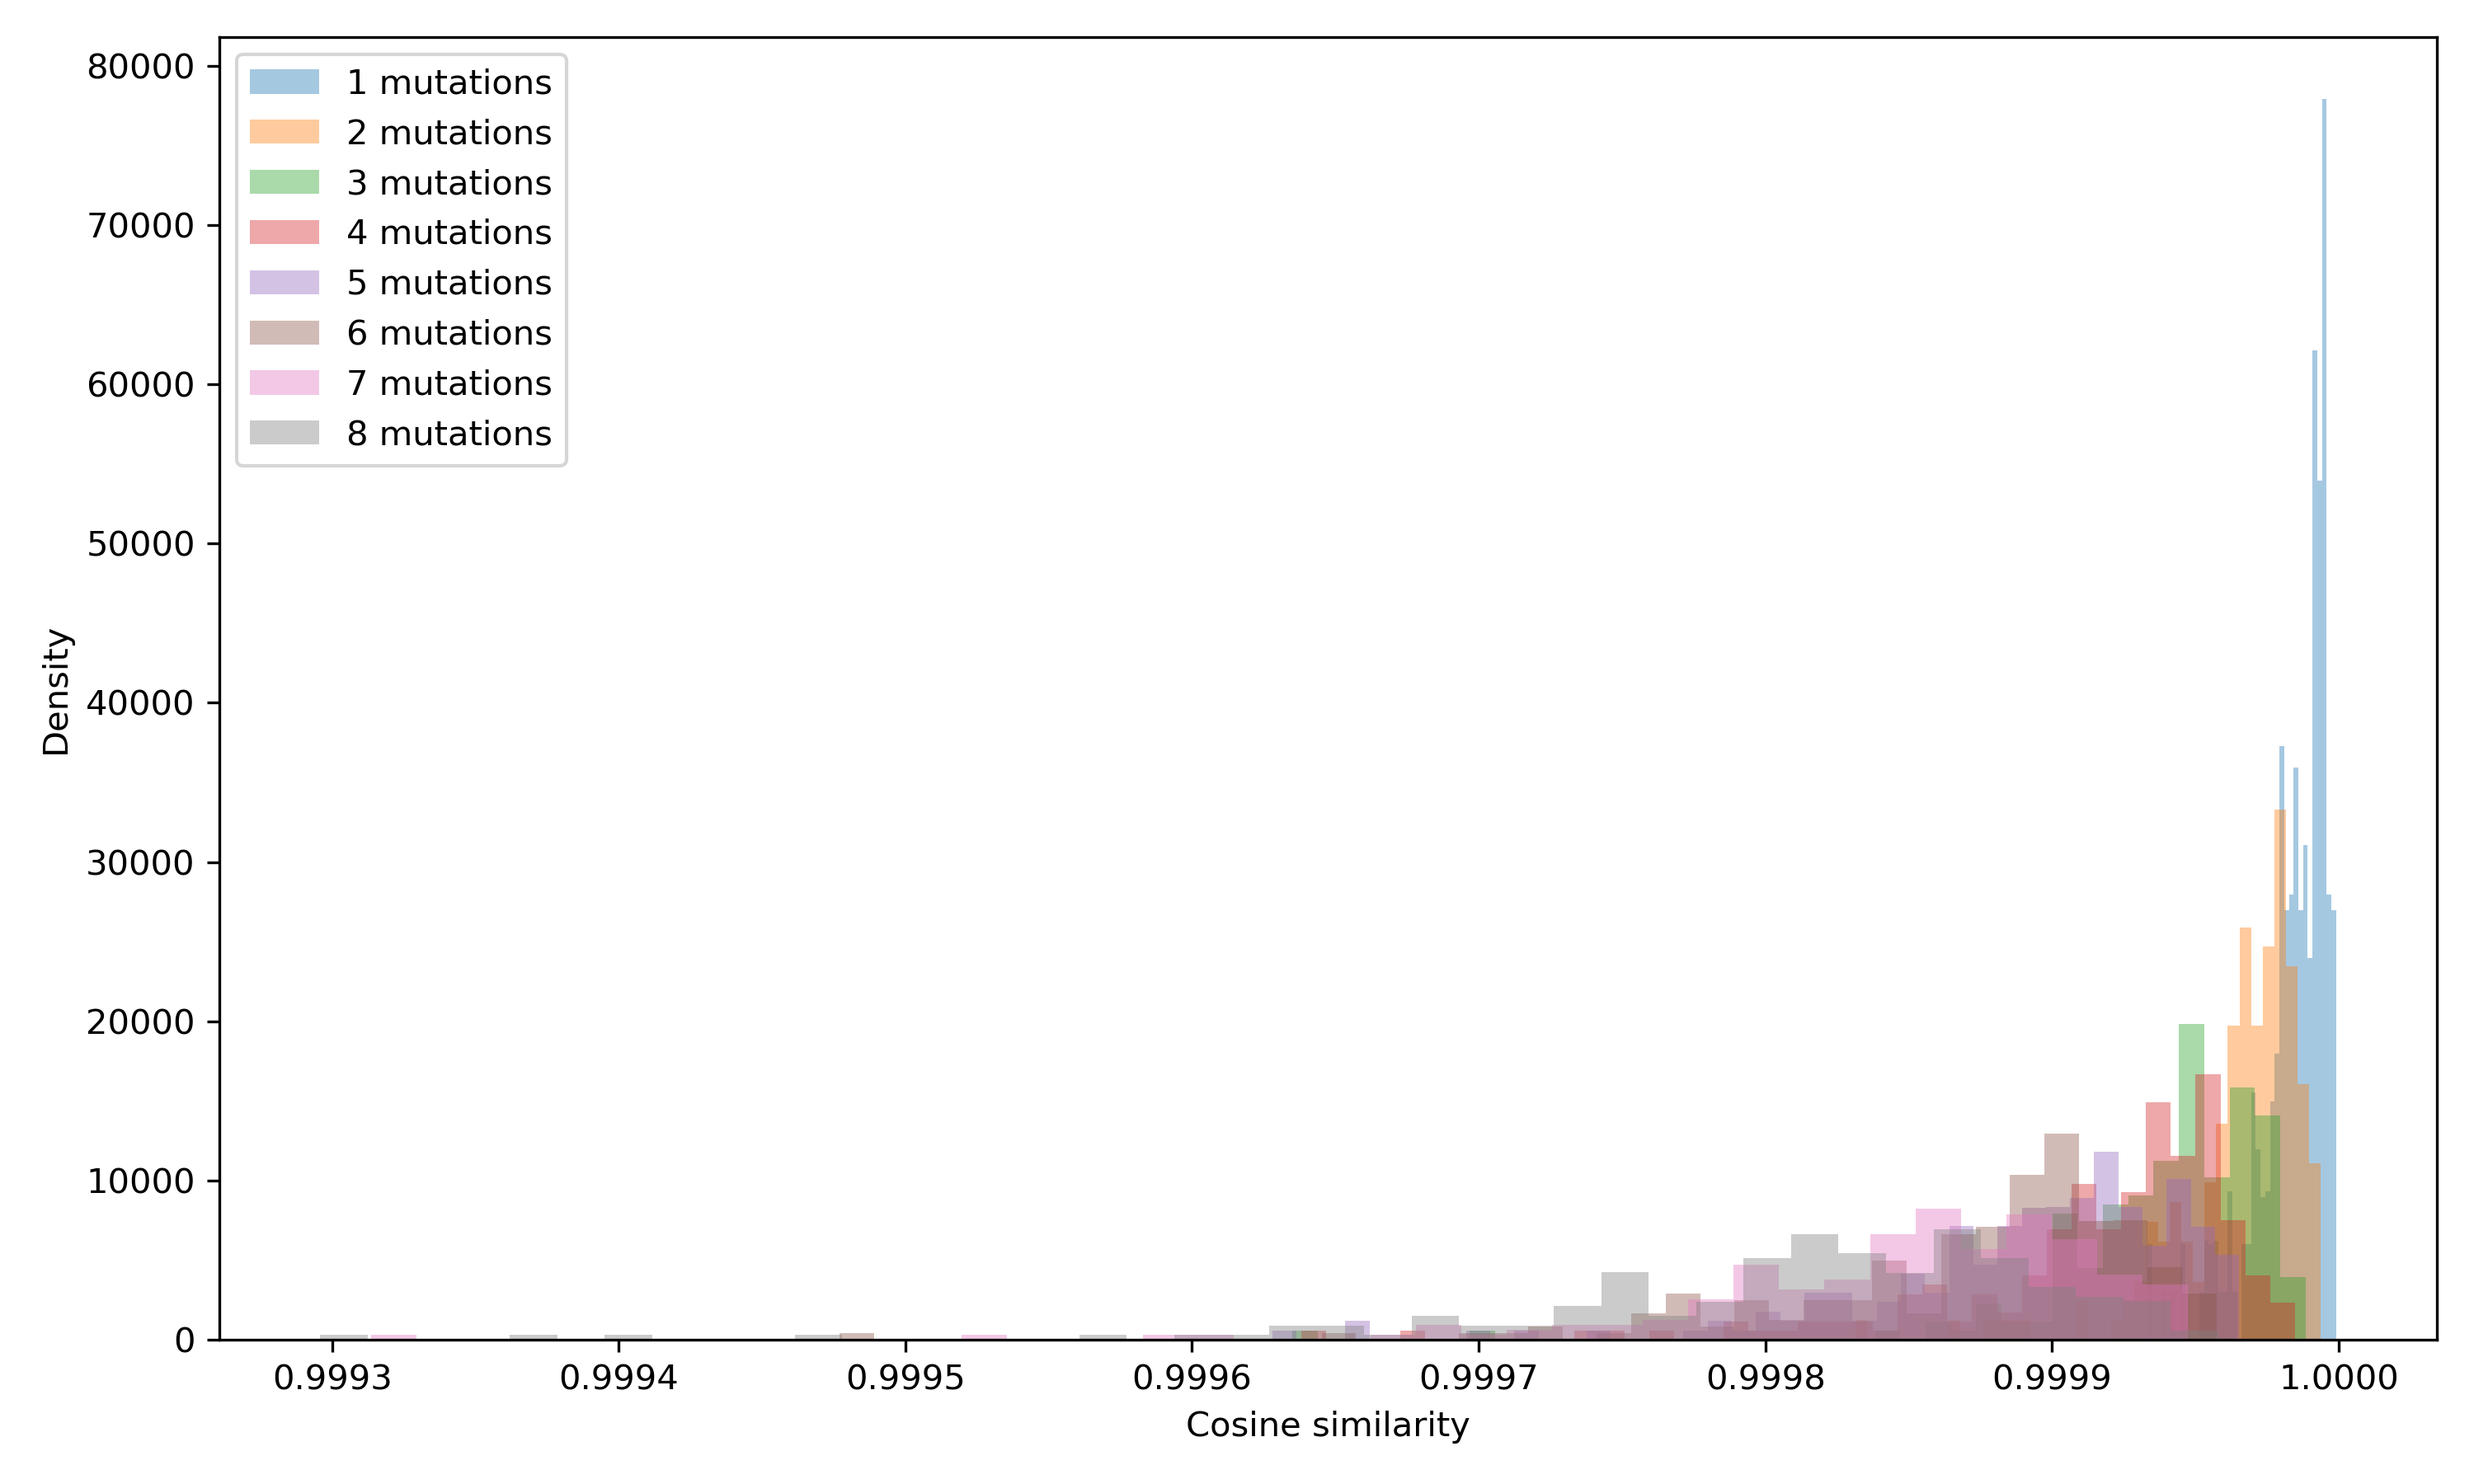
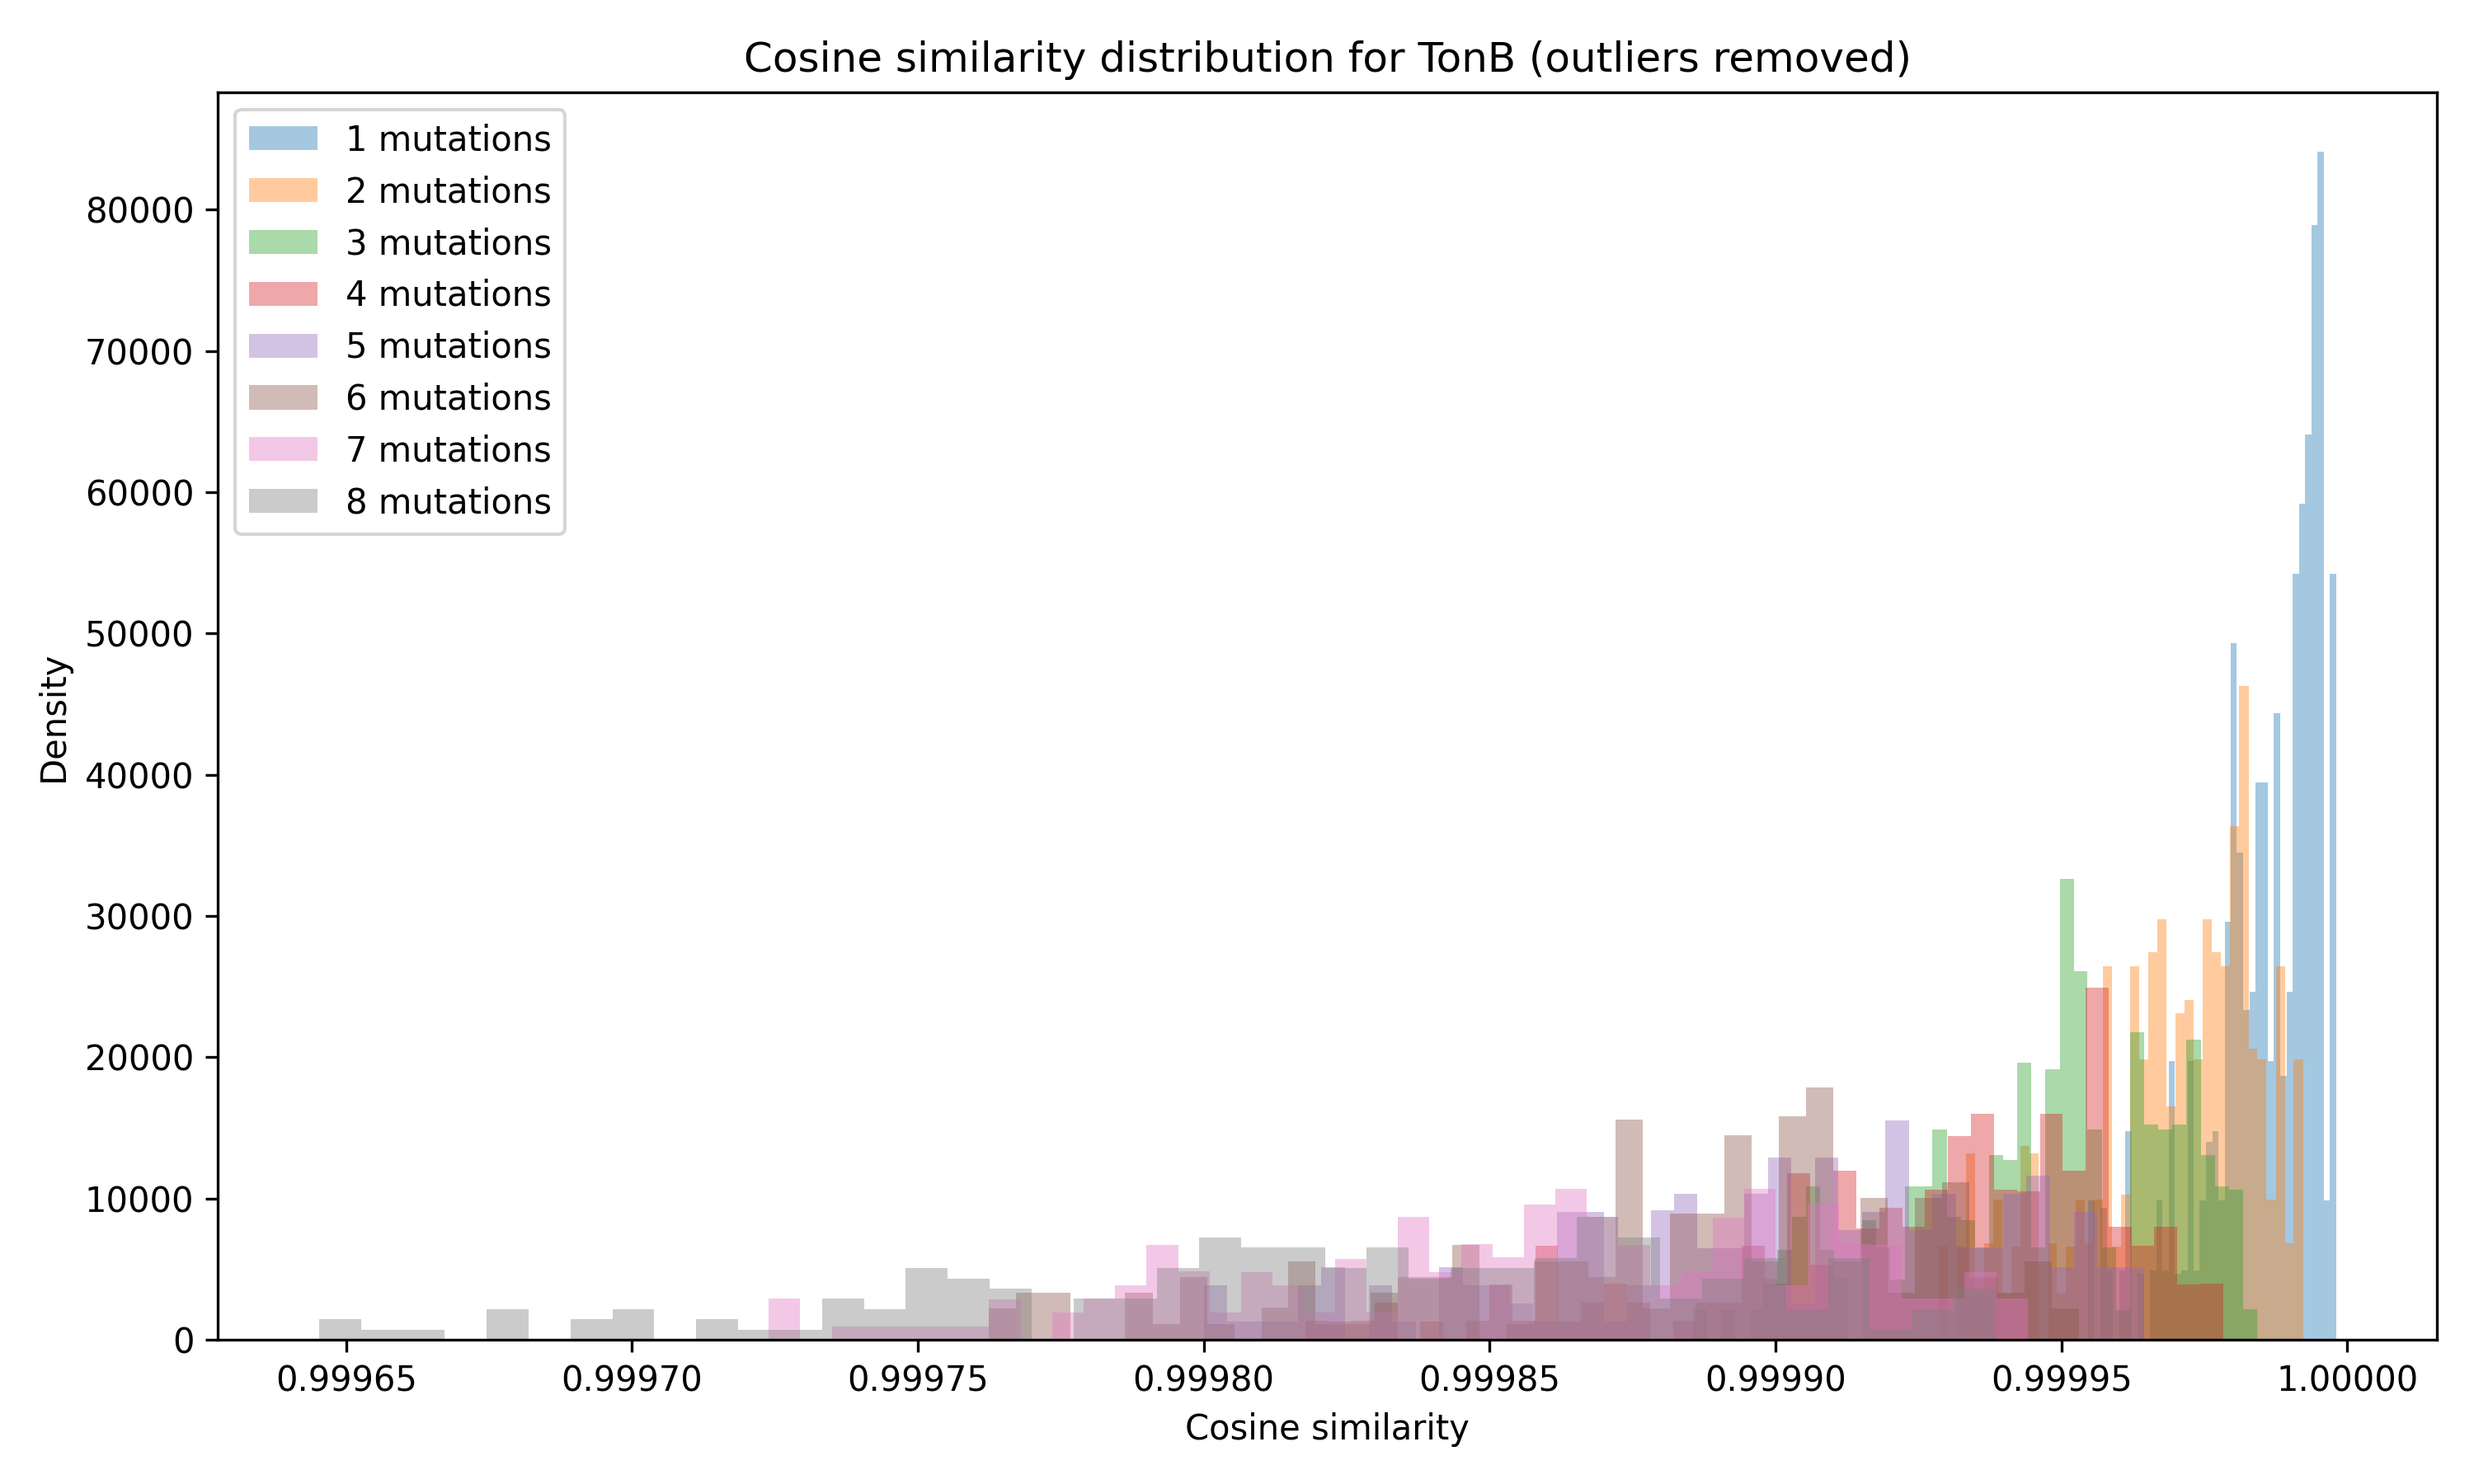
removed outliers, added titles and ran the script for both proteins

diff --git a/DNAjb1/cosine_similarity/cosine_similarity_distribution.py b/DNAjb1/cosine_similarity/cosine_similarity_distribution.py
@@ -1,5 +1,3 @@
-DNAjb1_sequence = "MGKDYYQTLGLARGASDDEIKRAYRRQALRYPDKNKEPGAEEKFKEIAEAYDVLSDPRKREIFDRYGEEGLKGGGPSGGSSGGANGTSFSYTFGDPAMFAEFFGGRNP"
-
 import torch
 import time
 import random
@@ -35,6 +33,11 @@ np.random.seed(SEED)
 torch.manual_seed(SEED)
 
 AMINO_ACIDS = list("ACDEFGHIKLMNPQRSTVWY")
+
+# --- Sequenza target ---
+with open("../../sequences/dnajb1.txt") as f:
+    DNAjb1_sequence = f.read().strip()
+print(DNAjb1_sequence)
 
 # =====================
 # LOAD MODEL
@@ -153,12 +156,20 @@ def run_mutation_similarity_analysis(tonb_sequence):
 # =====================
 # PLOTTING
 # =====================
-def plot_distributions(similarity_distributions):
+def plot_distributions(similarity_distributions, lower_q=5, upper_q=99):
     plt.figure(figsize=(10, 6))
 
     for k, sims in similarity_distributions.items():
+        sims = np.array(sims)
+
+        # percentili
+        low = np.percentile(sims, lower_q)
+        high = np.percentile(sims, upper_q)
+
+        sims_filtered = sims[(sims >= low) & (sims <= high)]
+
         plt.hist(
-            sims,
+            sims_filtered,
             bins=40,
             alpha=0.4,
             density=True,
@@ -167,13 +178,15 @@ def plot_distributions(similarity_distributions):
 
     plt.xlabel("Cosine similarity")
     plt.ylabel("Density")
+    plt.title("Cosine similarity distribution for DNAjb1 (outliers removed)")
     plt.legend()
     plt.tight_layout()
-    plt.savefig("./result.png", dpi = 300)
+    plt.savefig("./result.png", dpi=300)
     plt.show()
+
 
 # =====================
 # USAGE
 # =====================
-results = run_mutation_similarity_analysis(tonb_sequence)
+results = run_mutation_similarity_analysis(DNAjb1_sequence)
 plot_distributions(results)

diff --git a/TonB/cosine_similarity/cosine_similarity_distribution.py b/TonB/cosine_similarity/cosine_similarity_distribution.py
@@ -1,6 +1,3 @@
-tonb_sequence = (
-    "MTLDLPRRFPWPTLLSVCIHGAVVAGLLYTSVHQVIELPAPAQPISVTMVTPADLEPPQAVQPPPEPVVEPEPEPEPIPEPPKEAPVVIEKPKPKPKPKPKPVKKVQEQPKRDVKPVESRPASPFENTAPARLTSSTATAATSKPVTSVASGPRALSRNQPQYPARAQALRIEGQVKVKFDVTPDGRVDNVQILSAKPANMFEREVKNAMRRWRYEPGKPGSGIVVNILFKINGTTEIQ"
-)
 import torch
 import time
 import random
@@ -38,6 +35,11 @@ np.random.seed(SEED)
 torch.manual_seed(SEED)
 
 AMINO_ACIDS = list("ACDEFGHIKLMNPQRSTVWY")
+
+# --- Sequenza target ---
+with open("../../sequences/tonb.txt") as f:
+    tonb_sequence = f.read().strip()
+print(tonb_sequence)
 
 # =====================
 # LOAD MODEL
@@ -156,12 +158,20 @@ def run_mutation_similarity_analysis(tonb_sequence):
 # =====================
 # PLOTTING
 # =====================
-def plot_distributions(similarity_distributions):
+def plot_distributions(similarity_distributions, lower_q=5, upper_q=99):
     plt.figure(figsize=(10, 6))
 
     for k, sims in similarity_distributions.items():
+        sims = np.array(sims)
+
+        # percentili
+        low = np.percentile(sims, lower_q)
+        high = np.percentile(sims, upper_q)
+
+        sims_filtered = sims[(sims >= low) & (sims <= high)]
+
         plt.hist(
-            sims,
+            sims_filtered,
             bins=40,
             alpha=0.4,
             density=True,
@@ -170,9 +180,10 @@ def plot_distributions(similarity_distributions):
 
     plt.xlabel("Cosine similarity")
     plt.ylabel("Density")
+    plt.title("Cosine similarity distribution for TonB (outliers removed)")
     plt.legend()
     plt.tight_layout()
-    plt.savefig("./result.png", dpi = 300)
+    plt.savefig("./result.png", dpi=300)
     plt.show()
 
 # =====================
